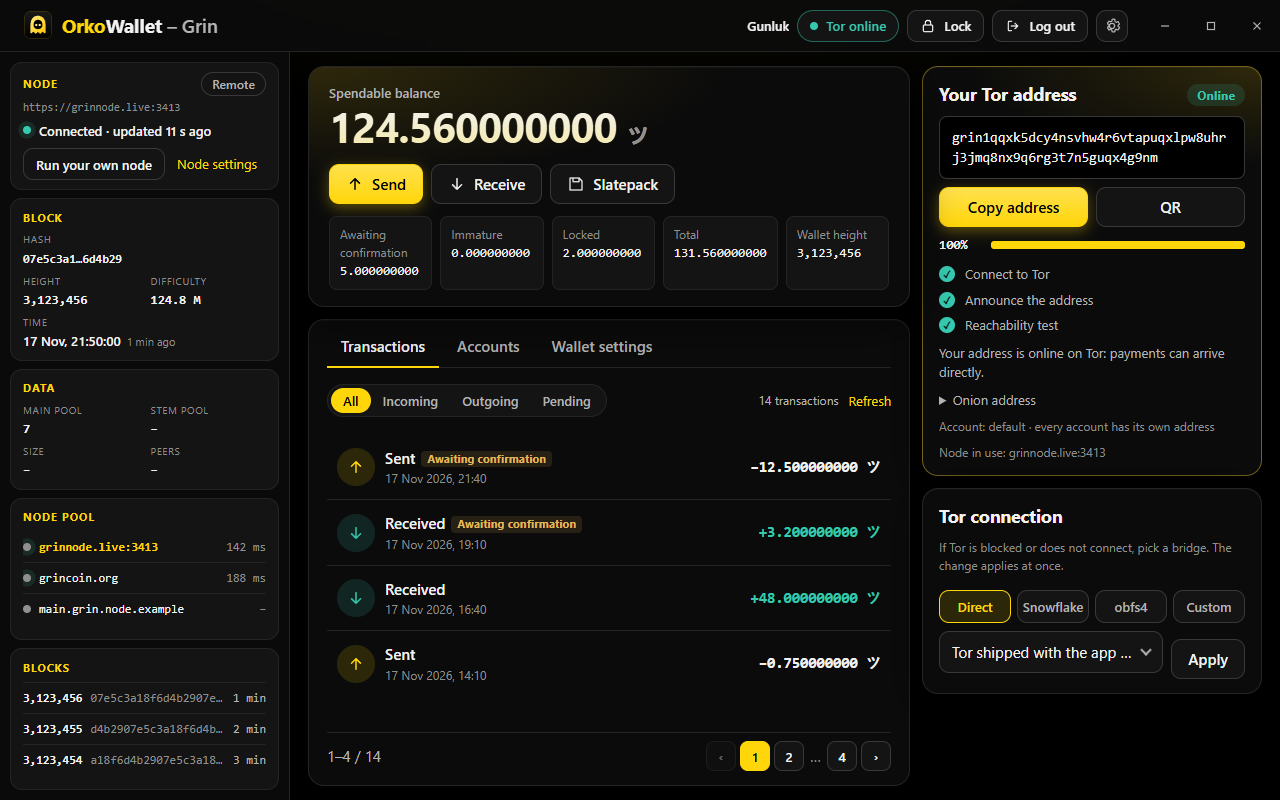
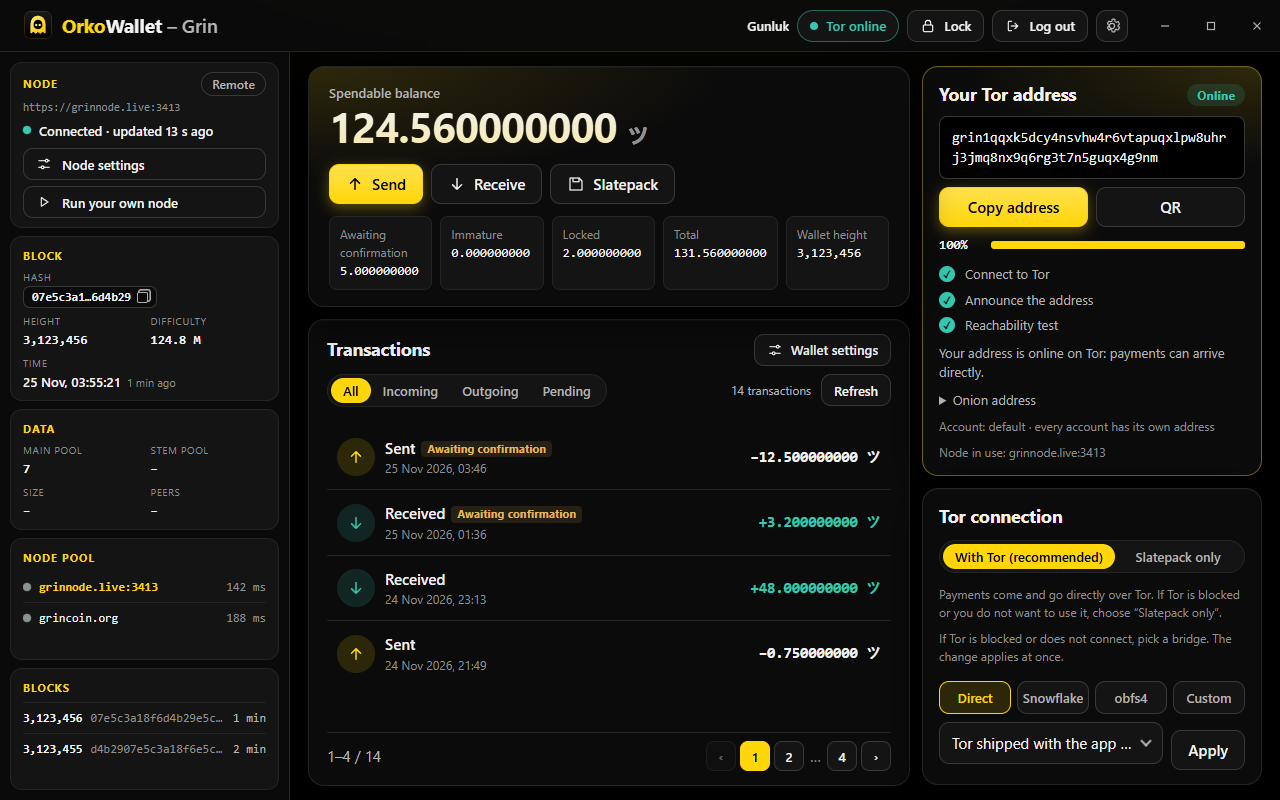
README, release notes and screenshots for the 0.3.2 update: fingerprint unlock, fast sync, lighter Tor, clearer history

diff --git a/README.md b/README.md
@@ -55,7 +55,7 @@ Get the file for your system from the **[latest release](../../releases/latest)*
 
 ## ✨ What's new in 0.3.2: the big update
 
-> The largest release so far. One settings window instead of three, a phone app that finally feels at home, a Linux build, and a wallet that understands being used on more than one device.
+> The largest release so far. One settings window instead of three, a phone app that feels at home (with fingerprint unlock), a Linux build, an optional fast sync for your own node, a lighter Tor and a wallet that understands being used on more than one device.
 
 | | |
 |---|---|
@@ -66,6 +66,11 @@ Get the file for your system from the **[latest release](../../releases/latest)*
 | 🔁 **Same wallet on two devices** | Money spent on another device now shows as "Spent on another device", the change is found by a short scan, and a note explains how to use two devices safely. |
 | ⚡ **Instant Max** | The Max amount is ready the moment the Send window opens. |
 | 🧹 **Tidy accounts** | Remove an account from the list (it is only hidden; its money and address stay). Deleting a wallet stays a separate step with its own confirmation. |
+| 👆 **Fingerprint unlock (Android)** | Open the wallet with your fingerprint, on the lock screen and when opening a wallet. Optional, off until you switch it on in *Settings → Security*; your password keeps working next to it. |
+| ⚡ **Fast sync for your own node (optional)** | *Settings → Node → Fast sync* downloads a recent snapshot published by community servers (the public Grin Node Toolkit list, newest first). The download resumes where it stopped, the node then only catches up the last few days, and the normal sync is always there. Thanks to noobvie for the idea and the extra public nodes. |
+| 🪶 **Lighter and calmer** | Tor looks at its own address far less often when everything works and takes a breath on a flaky network; the phone app asks the background less often and the balance appears at once, then updates from the node. |
+| 🧾 **Clearer history** | A transaction opens with what matters (state, amount, fee, date); the technical fields sit under *Details*. |
+| 🎨 **Smoother lists and scrollbars** | Drop-down lists follow the theme everywhere, and the scrollbars are slim and themed. |
 | 🔎 **Kernel link on Android**, **rescan from this year by default**, and many small fixes. | |
 
 See the [changelog](CHANGELOG.md) for every detail.
@@ -103,7 +108,8 @@ It is meant to be easy for people who are not experts: a clear first-run flow, p
 - Tor built in (official Tor 0.4.9, obfs4, Snowflake and webtunnel bridges). Pay a Grin address directly over Tor.
 - **Slatepack only mode**: switch Tor off entirely (*Settings → General → Connection mode*, or the Tor card) and pay with Slatepack texts.
 - If the recipient is offline the wallet retries on its own (default: every minute for 30 minutes), or you can switch to Slatepack.
-- A pool of public nodes with automatic failover and health ordering, or your own built-in node.
+- A pool of public nodes with automatic failover and health ordering (five community nodes on mainnet), or your own built-in node.
+- **Fast sync (optional)** for the built-in node: start from a recent community snapshot instead of syncing from zero. It resumes after interruptions, can be stopped any time, and the normal sync stays the default.
 - A connection diagnosis that finds out why Tor will not connect (internet, clock, blocked network, log), and a repair option that rebuilds the Tor connection when it will not come up, and an automatic clean restart of Tor when your address stays unreachable.
 
 **Wallet**
@@ -115,7 +121,7 @@ It is meant to be easy for people who are not experts: a clear first-run flow, p
 - **Max** button to send the whole spendable balance, and a setting for how many confirmations (1 to 10) a payment needs before you can spend it.
 - Slatepack send and receive.
 - An unfinished Slatepack exchange is kept: open the transaction later to copy the text again, or paste the reply and finish.
-- Transaction history with paging, CSV export, payment proofs, wallet backup.
+- Transaction history with paging, CSV export, payment proofs, wallet backup. Each transaction opens with the essentials; the technical details are one tap away.
 - Delete a wallet from the list, even if you forgot its password. It asks for confirmation first, and the encrypted key file stays for 30 days under "Recently deleted", so a mistake can be undone.
 - **Repair (rescan)** starts from the current year by default, the fastest choice; "from the start" is still there.
 
@@ -137,7 +143,8 @@ It is meant to be easy for people who are not experts: a clear first-run flow, p
 - Keeps receiving with the screen off: while a wallet is open a small ongoing notification ("OrkoWallet is running") keeps the app and its Tor address alive, even in Android's deep sleep. The Back button sends the app to the background; logging out of the wallet stops it.
 - Payment and Tor notifications, and a screen that cannot be captured while the recovery phrase is visible.
 - **Close wallet** in the ongoing notification shuts the wallet and Tor down cleanly and quits the app.
-- Pull down to refresh, pages that always scroll to the end, and a round scroll button.
+- **Fingerprint unlock** (optional): your password stays encrypted in the phone's secure hardware and is released by your fingerprint. The password always works too.
+- Pull down to refresh (your wallet's own data shows at once, the node follows), pages that always scroll to the end, and a round scroll button.
 
 **Comfort**
 
@@ -176,25 +183,27 @@ The default is the black-and-yellow Grin look. Prefer the blue Orko colours? Pic
 
 ![Send, Orko blue, dark](docs/screenshots/send-orko-dark.png)
 
-### Compact layout
+### Fresh in 0.3.2
 
-The same wallet in a narrow window or on a phone-sized screen: one column, bottom tabs for Wallet, Tor and Node.
+| Clearer history | Fast sync, optional |
+|---|---|
+| ![A transaction with the essentials and a Details fold](docs/screenshots/tx-details.png) | ![Settings, Node: Fast sync](docs/screenshots/settings-fastsync.png) |
 
-<p>
-  <img src="docs/screenshots/mobile-wallet.png" alt="Compact layout: wallet" width="270">
-  &nbsp;
-  <img src="docs/screenshots/mobile-tor.png" alt="Compact layout: Tor address" width="270">
-</p>
+### Compact layout: phone and small windows
 
-### Android
+The same wallet in a narrow window or on a phone: one column, bottom tabs for Wallet, Tor and Node, and the Settings list with one tap per category. The Android app shows the fingerprint option under *Security*.
 
 <p>
-  <img src="docs/screenshots/android-wallet.png" alt="Android: wallet" width="270">
+  <img src="docs/screenshots/mobile-wallet.png" alt="Compact layout: wallet" width="230">
   &nbsp;
-  <img src="docs/screenshots/android-backup.png" alt="Android: Settings, Backup, Recovery phrase" width="270">
+  <img src="docs/screenshots/mobile-tor.png" alt="Compact layout: Tor address" width="230">
+  &nbsp;
+  <img src="docs/screenshots/mobile-settings.png" alt="Compact layout: Settings categories" width="230">
+  &nbsp;
+  <img src="docs/screenshots/mobile-security.png" alt="Compact layout: Settings, Security, with fingerprint unlock on Android" width="230">
 </p>
 
-> The screenshots show demo data or an empty test wallet, not a real wallet.
+> The screenshots show demo data, not a real wallet.
 
 ## Install
 

diff --git a/docs/release-notes/v0.3.2.md b/docs/release-notes/v0.3.2.md
@@ -9,6 +9,10 @@ The largest release so far, and the first one for **Linux**. Free, open source a
 - 📴 **Slatepack only mode**: switch Tor off completely and pay with Slatepack texts (*Settings → General → Connection mode*).
 - 📱 **A much better phone app**: every page scrolls to the end, pull down to refresh, a scroll button, big buttons in the node panel, and **Close wallet** right in the notification.
 - 🔁 **Same wallet on two devices**: money spent on another device shows as *Spent on another device*; the change is found by a short scan, and a note explains how to use two devices safely.
+- 👆 **Fingerprint unlock on Android**: optional, off until you switch it on (*Settings → Security*). Your password stays encrypted in the phone's secure hardware and is released by your fingerprint; the password always works too.
+- ⚡ **Optional fast sync for your own node** (*Settings → Node → Fast sync*): start from a recent snapshot published by community servers instead of syncing from zero. It resumes where it stopped, and the normal sync is always there. Thanks to noobvie for the idea.
+- 🪶 **Lighter and calmer**: Tor checks its own address far less often and backs off on a flaky network; the phone asks the background less often and shows your balance at once.
+- 🧾 **Clearer history**: a transaction opens with the essentials, the technical details sit under *Details*.
 - ⚡ **Instant Max** when sending.
 - 🧹 **Tidy accounts**: remove an account from the list (only hidden, nothing is lost). Deleting a wallet stays a separate step with its own confirmation.
 - 🔎 Kernel link on Android, rescan from this year by default, Android restarts by itself after a network change, and many more fixes.
